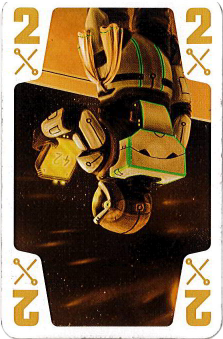
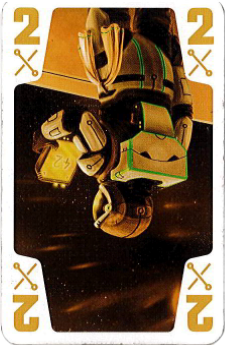
Redimension des cartes jaunes en 225x345 px

diff --git a/Assets/Scripts/Managment/GameManager.cs b/Assets/Scripts/Managment/GameManager.cs
@@ -23,7 +23,7 @@ public class GameManager : MonoBehaviour
             for (int j = 0; j < nbCardsPerColor; j++)
             {
                 Sprite sprite = Resources.Load<Sprite>($"Images/Cartes/0{i}{j}");
-                Vector3 pos = new Vector3(2.5f * j - 9, i * 4 - 4, 0);
+                Vector3 pos = new Vector3(2 * j - 9, i * 3.2f - 3.5f, 0);
                 cards[i, j] = Instantiate(cardPrefab, pos, Quaternion.identity);
                 cards[i, j].GetComponent<SpriteRenderer>().sprite = sprite;
             }
